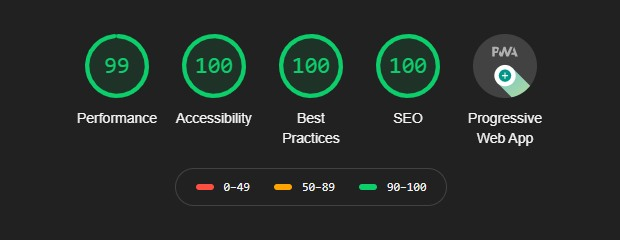
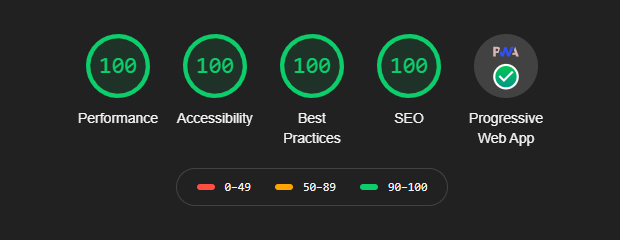
post updates

diff --git a/dist/page-list/1/index.html b/dist/page-list/1/index.html
@@ -168,16 +168,16 @@ View the source here: https://github.com/yasingencnet/yasingencnet
               <td>Tagged “General”</td>
             </tr>
             <tr>
+              <td><a href="/tags/JavaScript/"><code>/tags/JavaScript/</code></a></td>
+              <td>Tagged “JavaScript”</td>
+            </tr>
+            <tr>
               <td><a href="/tags/Travel/"><code>/tags/Travel/</code></a></td>
               <td>Tagged “Travel”</td>
             </tr>
             <tr>
               <td><a href="/tags/Ukraine/"><code>/tags/Ukraine/</code></a></td>
               <td>Tagged “Ukraine”</td>
-            </tr>
-            <tr>
-              <td><a href="/tags/JavaScript/"><code>/tags/JavaScript/</code></a></td>
-              <td>Tagged “JavaScript”</td>
             </tr>
             <tr>
               <td><a href="/tags/tagList/"><code>/tags/tagList/</code></a></td>

diff --git a/dist/page-list/index.html b/dist/page-list/index.html
@@ -168,16 +168,16 @@ View the source here: https://github.com/yasingencnet/yasingencnet
               <td>Tagged “General”</td>
             </tr>
             <tr>
+              <td><a href="/tags/JavaScript/"><code>/tags/JavaScript/</code></a></td>
+              <td>Tagged “JavaScript”</td>
+            </tr>
+            <tr>
               <td><a href="/tags/Travel/"><code>/tags/Travel/</code></a></td>
               <td>Tagged “Travel”</td>
             </tr>
             <tr>
               <td><a href="/tags/Ukraine/"><code>/tags/Ukraine/</code></a></td>
               <td>Tagged “Ukraine”</td>
-            </tr>
-            <tr>
-              <td><a href="/tags/JavaScript/"><code>/tags/JavaScript/</code></a></td>
-              <td>Tagged “JavaScript”</td>
             </tr>
             <tr>
               <td><a href="/tags/tagList/"><code>/tags/tagList/</code></a></td>

diff --git a/dist/tags/index.html b/dist/tags/index.html
@@ -116,6 +116,13 @@ View the source here: https://github.com/yasingencnet/yasingencnet
         
         <li class="card-list__item">
           
+          <a href="/tags/JavaScript/">
+            <span class="card-list__title">JavaScript</span>
+          </a>
+        </li>
+        
+        <li class="card-list__item">
+          
           <a href="/tags/Travel/">
             <span class="card-list__title">Travel</span>
           </a>
@@ -125,13 +132,6 @@ View the source here: https://github.com/yasingencnet/yasingencnet
           
           <a href="/tags/Ukraine/">
             <span class="card-list__title">Ukraine</span>
-          </a>
-        </li>
-        
-        <li class="card-list__item">
-          
-          <a href="/tags/JavaScript/">
-            <span class="card-list__title">JavaScript</span>
           </a>
         </li>
         

diff --git a/src/posts/11ty-free-blog-template/11ty-free-blog-template.md b/src/posts/11ty-free-blog-template/11ty-free-blog-template.md
@@ -41,10 +41,9 @@ Source Serif Pro (main) and Inter fonts used.
 
 ## Roadmap
 
-* 100/100/100/100 Lighthouse score. (Current score is 99/100/100/100).
 * Dark mode support.
 * Pagination.
-* Cached pages for an offline mode. (Supporting PWA but not yet offline mode).
+* Cached css for an offline mode. (Supporting PWA but not yet fully).
 * A static CMS
 * An experimental box for fun.
 
